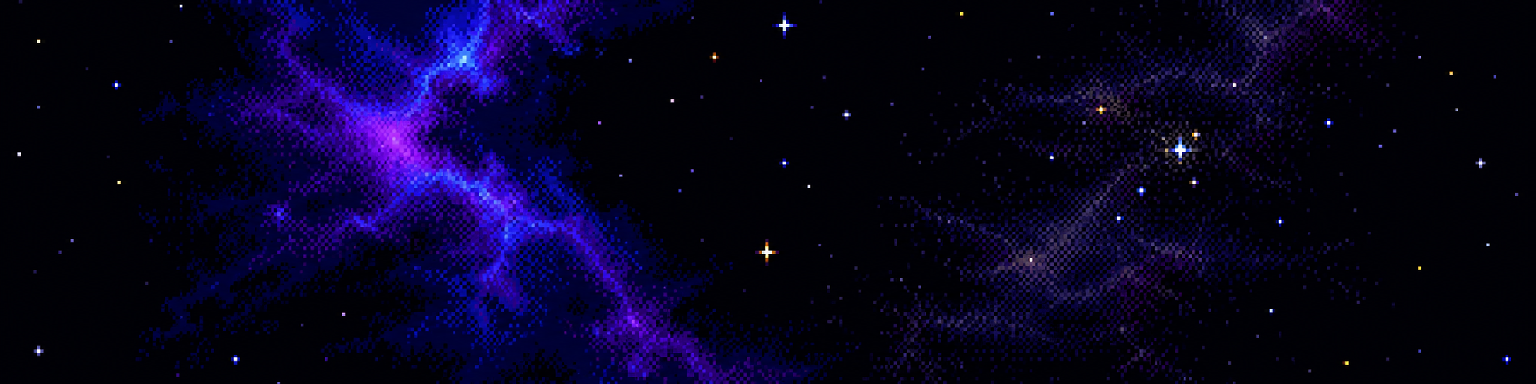
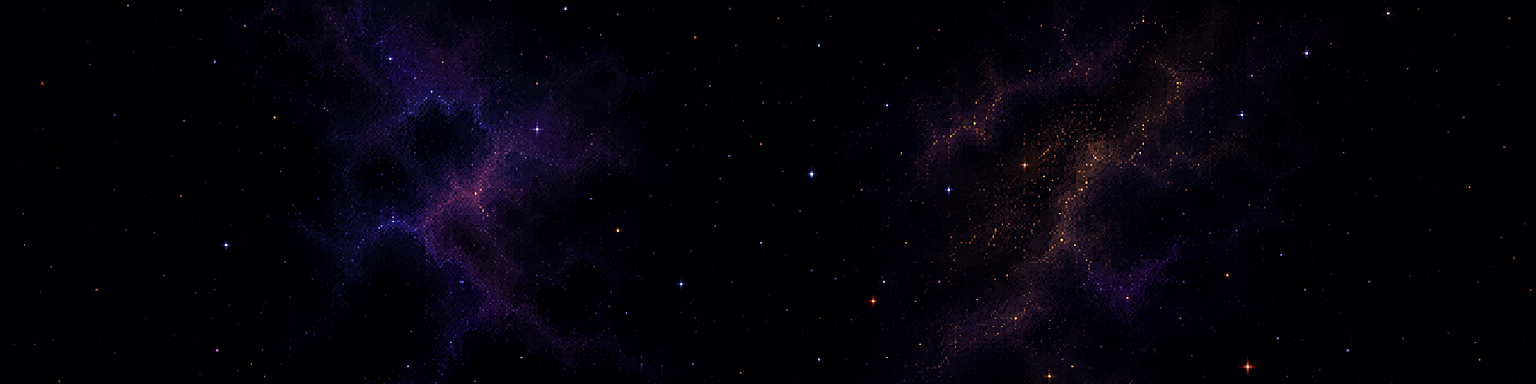
grind

diff --git a/src/app/scenes/game/bridge/view/space/BridgeSpaceBackgroundView.ts b/src/app/scenes/game/bridge/view/space/BridgeSpaceBackgroundView.ts
@@ -5,11 +5,22 @@ import { SPACE_BACKGROUND_SPRITES } from '../../../../../manifests/bridge/space_
 import type BridgeScene from '../../BridgeScene';
 import { BRIDGE_VIEWSCREEN_RECT } from '../bridge_viewscreen_layout';
 
-// View фонового изображения за bridge viewscreen.
-// Отвечает только за Phaser image в space layer и смену background texture.
+const PANORAMA_DISPLAY_SCALE = 2;
+
+// Панорамный фон за bridge viewscreen.
+//
+// TileSprite:
+// - сам обрезает изображение по размеру viewscreen;
+// - горизонтально зацикливает панораму;
+// - позволяет менять направление взгляда через tilePosition.
+//
+// Вертикальное движение ограничено границами исходного изображения,
+// поскольку верх и низ панорамы не предназначены для зацикливания.
 export default class BridgeSpaceBackgroundView {
     private readonly root: Phaser.GameObjects.Container;
-    private readonly background: Phaser.GameObjects.Image;
+    private readonly background: Phaser.GameObjects.TileSprite;
+
+    private readonly panoramaPosition = new Phaser.Math.Vector2();
 
     constructor(private readonly scene: BridgeScene) {
         this.root = this.scene.add.container(0, 0);
@@ -18,19 +29,80 @@ export default class BridgeSpaceBackgroundView {
         const asset = SPACE_BACKGROUND_SPRITES[SPACE_BACKGROUND_ID.NEBULA_00];
 
         this.background = this.scene.add
-            .image(BRIDGE_VIEWSCREEN_RECT.x, BRIDGE_VIEWSCREEN_RECT.y, asset.atlasKey, asset.frameKey)
+            .tileSprite(
+                BRIDGE_VIEWSCREEN_RECT.x,
+                BRIDGE_VIEWSCREEN_RECT.y,
+                BRIDGE_VIEWSCREEN_RECT.width,
+                BRIDGE_VIEWSCREEN_RECT.height,
+                asset.atlasKey,
+                asset.frameKey,
+            )
             .setOrigin(0, 0);
 
+        this.background.tileScaleX = PANORAMA_DISPLAY_SCALE;
+        this.background.tileScaleY = PANORAMA_DISPLAY_SCALE;
+
         this.root.add(this.background);
+
+        this.centerPanorama();
     }
 
     public setBackground(backgroundId: SpaceBackgroundId): void {
         const asset = SPACE_BACKGROUND_SPRITES[backgroundId];
 
         this.background.setTexture(asset.atlasKey, asset.frameKey);
+
+        this.centerPanorama();
+    }
+
+    // screenX / screenY означают желаемое визуальное смещение фона
+    // в координатах bridge viewscreen.
+    public panBy(screenX: number, screenY: number): void {
+        // Рост tilePosition двигает изображение в обратную сторону,
+        // поэтому применяем отрицательный visual delta.
+        this.panoramaPosition.x -= screenX / PANORAMA_DISPLAY_SCALE;
+
+        this.panoramaPosition.y = Phaser.Math.Clamp(
+            this.panoramaPosition.y - screenY / PANORAMA_DISPLAY_SCALE,
+            0,
+            this.getMaximumVerticalPosition(),
+        );
+
+        this.applyPanoramaPosition();
     }
 
     public destroy(): void {
         this.root.destroy(true);
+    }
+
+    private centerPanorama(): void {
+        const visibleTextureWidth = BRIDGE_VIEWSCREEN_RECT.width / PANORAMA_DISPLAY_SCALE;
+
+        const visibleTextureHeight = BRIDGE_VIEWSCREEN_RECT.height / PANORAMA_DISPLAY_SCALE;
+
+        const frameWidth = this.background.frame.cutWidth;
+        const frameHeight = this.background.frame.cutHeight;
+
+        this.panoramaPosition.set(
+            Math.max(0, (frameWidth - visibleTextureWidth) / 2),
+
+            Math.max(0, (frameHeight - visibleTextureHeight) / 2),
+        );
+
+        this.applyPanoramaPosition();
+    }
+
+    private getMaximumVerticalPosition(): number {
+        const visibleTextureHeight = BRIDGE_VIEWSCREEN_RECT.height / PANORAMA_DISPLAY_SCALE;
+
+        return Math.max(0, this.background.frame.cutHeight - visibleTextureHeight);
+    }
+
+    private applyPanoramaPosition(): void {
+        // Background обновляется теми же дискретными кадрами,
+        // что и object animations.
+        this.background.tilePositionX = Math.round(this.panoramaPosition.x);
+
+        this.background.tilePositionY = Math.round(this.panoramaPosition.y);
     }
 }

diff --git a/src/app/scenes/game/bridge/view/objects/animation/travel/play_objects_travel_sequence.ts b/src/app/scenes/game/bridge/view/objects/animation/travel/play_objects_travel_sequence.ts
@@ -12,6 +12,9 @@ const TURN_DURATION_MS = 500;
 const TURN_SHIFT_PX = 90;
 const TURN_SCALE_DELTA = 0.08;
 
+const BACKGROUND_TURN_PAN_X_PX = 360;
+const BACKGROUND_TURN_PAN_Y_PX = 100;
+
 const DEPARTURE_DURATION_MS = 800;
 const DEPARTURE_PUSH_PX = 720;
 const DEPARTURE_RADIAL_EXPANSION = 1.2;
@@ -44,6 +47,10 @@ type TravelObjectMotion = {
 // Пространственный вектор navigation objects
 // задаёт направление поворота.
 //
+// Во время TURN:
+// - текущая anchor group смещается против направления цели;
+// - космическая панорама смещается в ту же экранную сторону.
+//
 // Объекты внутри anchor используют
 // собственные normalPosition и perspectiveDepth.
 export function playObjectsTravelSequence(
@@ -74,14 +81,13 @@ export function playObjectsTravelSequence(
     // в сторону, противоположную цели.
     const turnShiftDirection = travelDirection.clone().scale(-1);
 
-    // Если цель находится строго впереди/сзади
-    // и lateral direction отсутствует,
+    // Если lateral direction отсутствует,
     // departure всё равно должен иметь направление выхода.
     const departureDirection = getDepartureDirection(turnShiftDirection, fromAnchorView);
 
     const fromMotions = createTravelObjectMotions(fromViews, turnShiftDirection);
 
-    playTurnPhase(payload.taskId, fromMotions, targetViews, departureDirection, context);
+    playTurnPhase(payload.taskId, fromMotions, targetViews, turnShiftDirection, departureDirection, context);
 }
 
 // #region Turn
@@ -90,9 +96,12 @@ function playTurnPhase(
     taskId: string,
     fromMotions: TravelObjectMotion[],
     targetViews: BridgeObjectSpriteView[],
+    turnShiftDirection: Phaser.Math.Vector2,
     departureDirection: Phaser.Math.Vector2,
     context: BridgeObjectsAnimationContext,
 ): void {
+    let previousProgress = 0;
+
     const timer = playSteppedAnimation({
         scene: context.scene,
 
@@ -111,6 +120,18 @@ function playTurnPhase(
 
                 setQuantizedTransform(motion.view, x, y, scale);
             }
+
+            // panBackgroundBy принимает не абсолютную позицию,
+            // а delta текущего stepped-кадра.
+            const progressDelta = progress - previousProgress;
+
+            context.panBackgroundBy(
+                turnShiftDirection.x * BACKGROUND_TURN_PAN_X_PX * progressDelta,
+
+                turnShiftDirection.y * BACKGROUND_TURN_PAN_Y_PX * progressDelta,
+            );
+
+            previousProgress = progress;
         },
 
         onComplete: () => {
@@ -284,6 +305,7 @@ function createTravelObjectMotions(
 
             turnPosition: new Phaser.Math.Vector2(
                 normalPosition.x + turnShiftDirection.x * TURN_SHIFT_PX * depth,
+
                 normalPosition.y + turnShiftDirection.y * TURN_SHIFT_PX * depth,
             ),
 
@@ -356,6 +378,7 @@ function getPerspectiveDepth(view: BridgeObjectSpriteView): number {
 function getViewscreenCenter(): Phaser.Math.Vector2 {
     return new Phaser.Math.Vector2(
         BRIDGE_VIEWSCREEN_RECT.x + BRIDGE_VIEWSCREEN_RECT.width / 2,
+
         BRIDGE_VIEWSCREEN_RECT.y + BRIDGE_VIEWSCREEN_RECT.height / 2,
     );
 }

diff --git a/src/app/scenes/game/bridge/view/BridgeView.ts b/src/app/scenes/game/bridge/view/BridgeView.ts
@@ -2,21 +2,19 @@
 
 import type BridgeScene from '../BridgeScene';
 import type BridgeEventBus from '../events/BridgeEventBus';
+import BridgeOfficerBarksView from './barks/BridgeOfficerBarksView';
 import BridgeCrewView from './crew/BridgeCrewView';
 import BridgeInteriorView from './interior/BridgeInteriorView';
-import BridgeSpaceBackgroundView from './space/BridgeSpaceBackgroundView';
-import BridgeObjectsView from './objects/BridgeObjectsView';
-import BridgeVfxView from './vfx/BridgeVfxView';
+import BridgeSpaceView from './space/BridgeSpaceView';
 import BridgeUiView from './ui/BridgeUiView';
-import BridgeOfficerBarksView from './barks/BridgeOfficerBarksView';
+import BridgeVfxView from './vfx/BridgeVfxView';
 
 // Root view bridge scene.
 // Собирает визуальные модули bridge и отвечает только за их lifecycle.
 export default class BridgeView {
     private interiorView?: BridgeInteriorView;
     private crewView?: BridgeCrewView;
-    private spaceBackgroundView?: BridgeSpaceBackgroundView;
-    private objectsView?: BridgeObjectsView;
+    private spaceView?: BridgeSpaceView;
     private vfxView?: BridgeVfxView;
     private uiView?: BridgeUiView;
     private officerBarksView?: BridgeOfficerBarksView;
@@ -27,12 +25,16 @@ export default class BridgeView {
     ) {}
 
     public prepare(): void {
-        this.spaceBackgroundView = new BridgeSpaceBackgroundView(this.scene);
-        this.objectsView = new BridgeObjectsView(this.scene, this.eventBus);
+        this.spaceView = new BridgeSpaceView(this.scene, this.eventBus);
+
         this.vfxView = new BridgeVfxView(this.scene, this.eventBus);
+
         this.interiorView = new BridgeInteriorView(this.scene);
+
         this.crewView = new BridgeCrewView(this.scene, this.eventBus);
+
         this.uiView = new BridgeUiView(this.scene, this.eventBus);
+
         this.officerBarksView = new BridgeOfficerBarksView(this.scene, this.eventBus);
     }
 
@@ -42,15 +44,13 @@ export default class BridgeView {
         this.crewView?.destroy();
         this.interiorView?.destroy();
         this.vfxView?.destroy();
-        this.objectsView?.destroy();
-        this.spaceBackgroundView?.destroy();
+        this.spaceView?.destroy();
 
         this.officerBarksView = undefined;
         this.uiView = undefined;
         this.crewView = undefined;
         this.interiorView = undefined;
         this.vfxView = undefined;
-        this.objectsView = undefined;
-        this.spaceBackgroundView = undefined;
+        this.spaceView = undefined;
     }
 }

diff --git a/src/app/scenes/game/bridge/view/space/BridgeSpaceView.ts b/src/app/scenes/game/bridge/view/space/BridgeSpaceView.ts
@@ -1,0 +1,33 @@
+// src/app/scenes/game/bridge/view/space/BridgeSpaceView.ts
+
+import type BridgeScene from '../../BridgeScene';
+import type BridgeEventBus from '../../events/BridgeEventBus';
+import BridgeObjectsView from '../objects/BridgeObjectsView';
+import BridgeSpaceBackgroundView from './BridgeSpaceBackgroundView';
+
+// Составной view мира за bridge viewscreen.
+//
+// Владеет space background и encounter objects,
+// а также локально связывает их animation motion.
+export default class BridgeSpaceView {
+    private readonly backgroundView: BridgeSpaceBackgroundView;
+    private readonly objectsView: BridgeObjectsView;
+
+    constructor(scene: BridgeScene, eventBus: BridgeEventBus) {
+        this.backgroundView = new BridgeSpaceBackgroundView(scene);
+
+        this.objectsView = new BridgeObjectsView(
+            scene,
+            eventBus,
+
+            (screenX, screenY) => {
+                this.backgroundView.panBy(screenX, screenY);
+            },
+        );
+    }
+
+    public destroy(): void {
+        this.objectsView.destroy();
+        this.backgroundView.destroy();
+    }
+}

diff --git a/src/app/scenes/game/bridge/view/objects/BridgeObjectsView.ts b/src/app/scenes/game/bridge/view/objects/BridgeObjectsView.ts
@@ -19,6 +19,7 @@ export default class BridgeObjectsView {
     constructor(
         private readonly scene: BridgeScene,
         private readonly eventBus: BridgeEventBus,
+        private readonly panBackgroundBy: (screenX: number, screenY: number) => void,
     ) {
         this.root = this.scene.add.container(0, 0);
         this.scene.layers.get('objects').add(this.root);
@@ -27,9 +28,17 @@ export default class BridgeObjectsView {
             scene: this.scene,
             eventBus: this.eventBus,
 
-            getObjectView: (objectId) => this.objectViews.get(objectId),
+            panBackgroundBy: (screenX, screenY) => {
+                this.panBackgroundBy(screenX, screenY);
+            },
 
-            getObjectViews: () => [...this.objectViews.values()],
+            getObjectView: (objectId) => {
+                return this.objectViews.get(objectId);
+            },
+
+            getObjectViews: () => {
+                return [...this.objectViews.values()];
+            },
 
             getAnchorObjectViews: (anchorObjectId) => {
                 return [...this.objectViews.values()].filter((view) => {

diff --git a/src/app/scenes/game/bridge/view/objects/animation/bridge_objects_animation_context.ts b/src/app/scenes/game/bridge/view/objects/animation/bridge_objects_animation_context.ts
@@ -13,11 +13,15 @@ export type BridgeObjectsAnimationContext = {
     scene: BridgeScene;
     eventBus: BridgeEventBus;
 
+    panBackgroundBy: (screenX: number, screenY: number) => void;
+
     getObjectView: (objectId: string) => BridgeObjectSpriteView | undefined;
+
     getObjectViews: () => BridgeObjectSpriteView[];
 
     getAnchorObjectViews: (anchorObjectId: string) => BridgeObjectSpriteView[];
 
     setActiveTimer: (timer: Phaser.Time.TimerEvent) => void;
+
     clearActiveTimer: () => void;
 };
